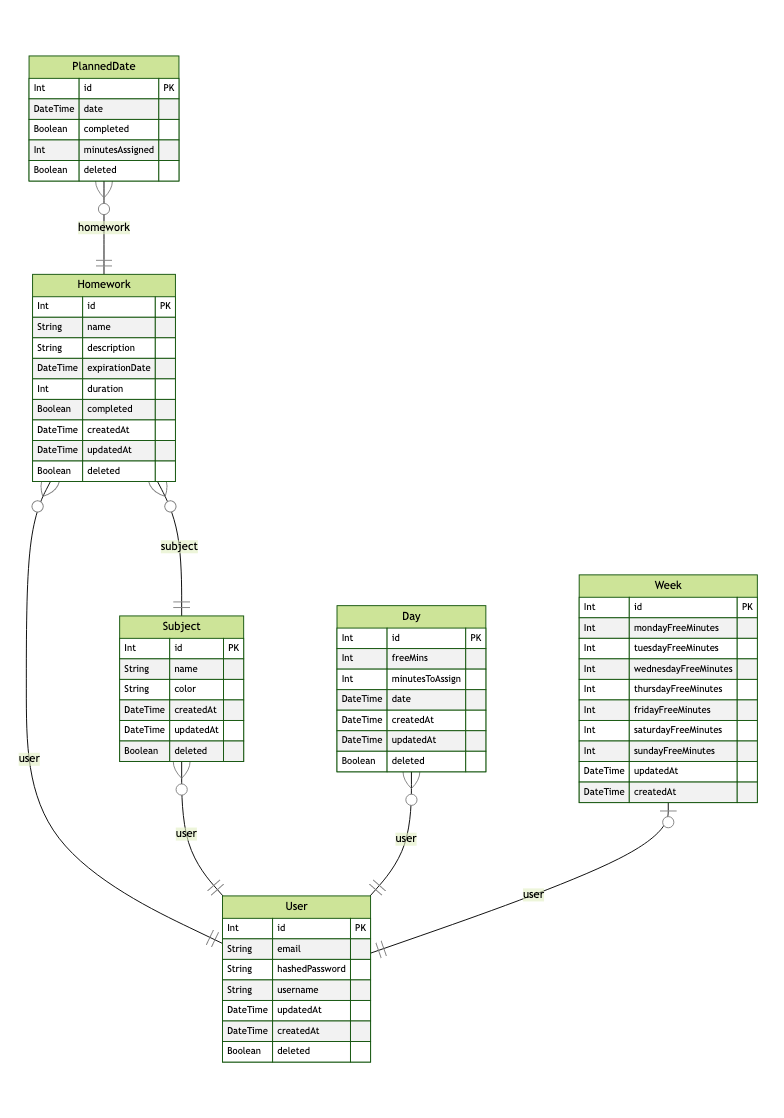
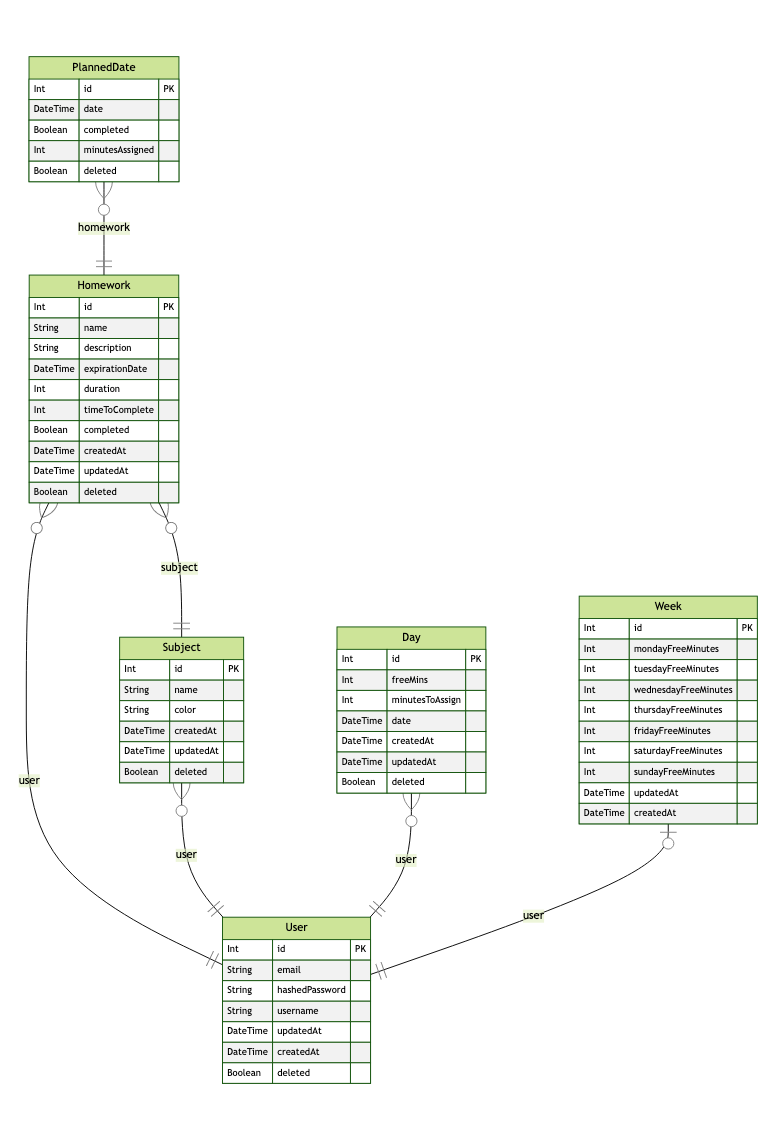
timeToComplete on homework

diff --git a/backend/src/controllers/plannedDates.ts b/backend/src/controllers/plannedDates.ts
@@ -5,7 +5,7 @@ import { prisma } from "../app";
 export const completePlannedDate = async (req: Request, res: Response) => {
   const { id } = req.params;
 
-  const r = await prisma.plannedDate.update({
+  const plannedDateUpdated = await prisma.plannedDate.update({
     where: {
       id: +id,
     },
@@ -13,7 +13,7 @@ export const completePlannedDate = async (req: Request, res: Response) => {
       completed: true,
     },
   });
-  if (!r) {
+  if (!plannedDateUpdated.minutesAssigned) {
     throwResponseError("Planned date not existing", 400, res);
     return;
   }
@@ -31,17 +31,20 @@ export const completePlannedDate = async (req: Request, res: Response) => {
     },
     data: {
       completed: true,
+      timeToComplete: {
+        decrement: plannedDateUpdated.minutesAssigned,
+      },
     },
   });
 
-  res.json(r);
+  res.json(plannedDateUpdated);
   return;
 };
 
 export const uncompletePlannedDate = async (req: Request, res: Response) => {
   const { id } = req.params;
 
-  const newPlannedDate = await prisma.plannedDate.updateMany({
+  const newPlannedDate = await prisma.plannedDate.update({
     where: {
       id: +id,
     },
@@ -60,6 +63,9 @@ export const uncompletePlannedDate = async (req: Request, res: Response) => {
     },
     data: {
       completed: false,
+      timeToComplete: {
+        increment: newPlannedDate.minutesAssigned,
+      },
     },
   });
 

diff --git a/backend/src/controllers/homework.ts b/backend/src/controllers/homework.ts
@@ -50,6 +50,7 @@ export const createHomework = async (req: Request, res: Response) => {
         userId: +userId!,
         description,
         duration: duration,
+        timeToComplete: duration,
         expirationDate: moment(expirationDate).startOf("day").toDate(),
         name: name,
         subjectId: subject.id,
@@ -80,6 +81,7 @@ export const getAllHomework = async (req: Request, res: Response) => {
       description: true,
       subject: true,
       expirationDate: true,
+      timeToComplete: true,
       plannedDates: true,
       duration: true,
       completed: true,
@@ -266,6 +268,7 @@ export const getSingleHomework = async (req: Request, res: Response) => {
       description: true,
       duration: true,
       expirationDate: true,
+      timeToComplete: true,
       subject: {
         select: {
           id: true,
